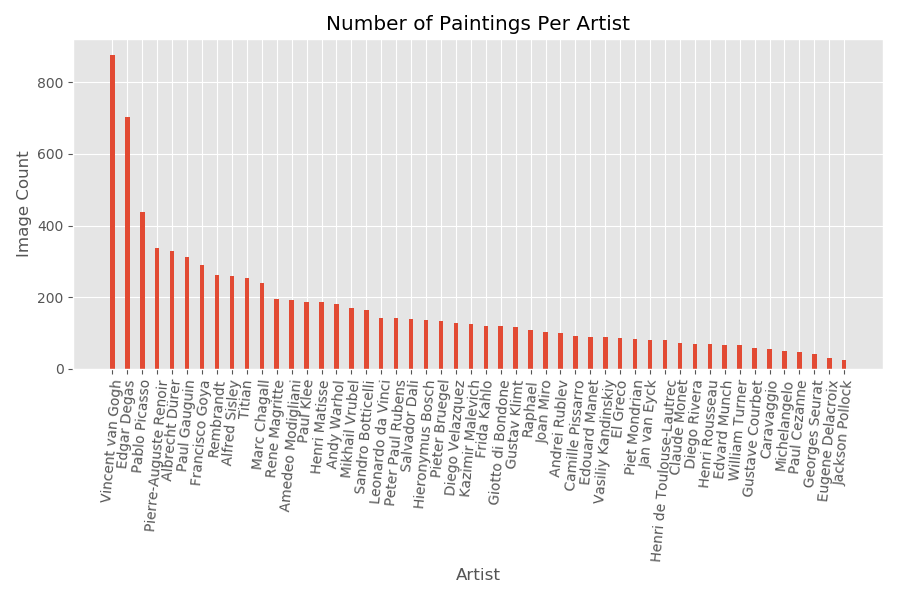
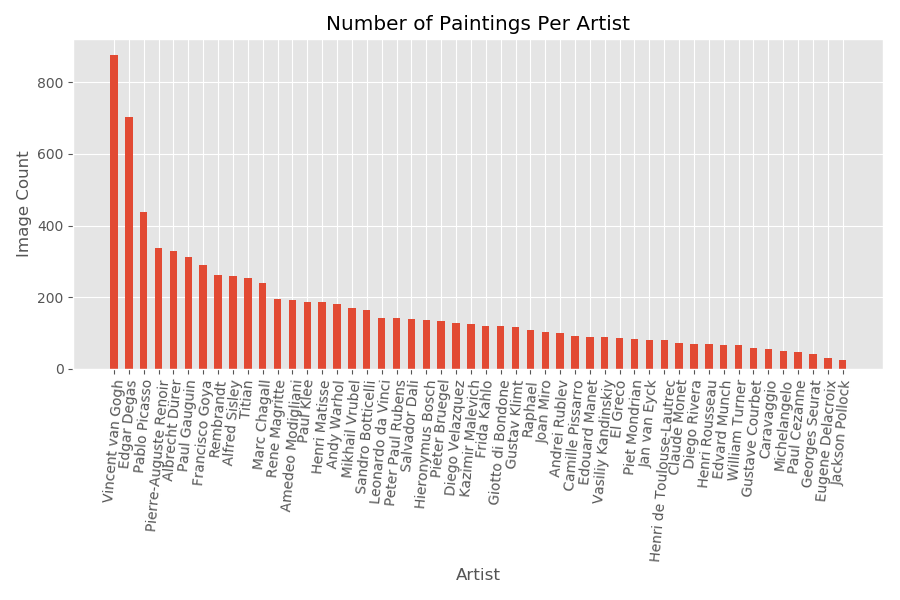
adjusted to dropout to .5/.8/.6

Changed region(s): [[0.0933, 0.06, 0.9644, 0.87], [0.7156, 0.9, 0.7467, 0.93]]

diff --git a/src/eda.py b/src/eda.py
@@ -5,6 +5,19 @@ plt.style.use('ggplot')
 
 artists = pd.read_csv('data/artists.csv')
 
+def bar_chart(labels, data, fig_name, xlabel = None, ylabel = None, title = None):
+    fig, ax = plt.subplots(1,1, figsize = (9, 6))
+    xtickLocations = np.arange(len(labels))
+    ax.bar(xtickLocations, data, width = .5)
+    ax.set_xticks(xtickLocations)
+    ax.set_xticklabels(labels)
+    ax.set_title(title)
+    ax.set_xlabel(xlabel)
+    ax.set_ylabel(ylabel)
+    plt.xticks(rotation= 85)
+    plt.tight_layout()
+    plt.savefig('img/{0}'.format(fig_name))
+
 if __name__ == "__main__":
     print(artists.head())
     paint = artists.sort_values('paintings')[::-1]
@@ -13,14 +26,23 @@ if __name__ == "__main__":
     counts = paint.paintings 
     width = 0.3
 
-    fig, ax = plt.subplots(1,1, figsize = (9, 6))
-    ax.bar(xtickLocations, counts, width)
-    ax.set_xticks(xtickLocations)
-    ax.set_xticklabels(labels)
-    ax.set_title('Number of Paintings Per Artist')
-    ax.set_xlabel('Artist')
-    ax.set_ylabel('Image Count')
-    plt.xticks(rotation= 85)
-    plt.tight_layout()
-    plt.savefig('img/paintings.png')
+    bar_chart(labels, counts, 'paintings', 'Artist', 'Image Count', 
+                    'Number of Paintings Per Artist')
+
+    nation = artists.nationality.value_counts()
+    labels = nation.index 
+    data = nation.values 
+    bar_chart(labels, data, 'nationality', 'Nationality', 'Number of Artist', 'Frequency of Nationality')
+
+    # fig, ax = plt.subplots(1,1, figsize = (9, 6))
+    # ax.bar(xtickLocations, counts, width)
+    # ax.set_xticks(xtickLocations)
+    # ax.set_xticklabels(labels)
+    # ax.set_title('Number of Paintings Per Artist')
+    # ax.set_xlabel('Artist')
+    # ax.set_ylabel('Image Count')
+    # plt.xticks(rotation= 85)
+    # plt.tight_layout()
+    # plt.savefig('img/paintings.png')
+
 

diff --git a/src/cnn.py b/src/cnn.py
@@ -65,14 +65,14 @@ def define_model(nb_filters, kernel_size, input_shape, pool_size):
     model.add(Activation('relu'))
 
     model.add(MaxPooling2D(pool_size=pool_size, name = 'pool_layer2'))
-    model.add(Dropout(0.3))
+    model.add(Dropout(0.5))
     model.add(Conv2D(nb_filters, (kernel_size[0], kernel_size[1]), 
                         padding='valid', 
                         name = 'conv_layer3'))
     model.add(Activation('relu'))
 
     model.add(MaxPooling2D(pool_size=pool_size, name = 'pool_layer3'))
-    model.add(Dropout(0.5))
+    model.add(Dropout(0.8))
 
     model.add(Flatten())
     print('Model flattened out to ', model.output_shape)
@@ -81,7 +81,7 @@ def define_model(nb_filters, kernel_size, input_shape, pool_size):
     model.add(Dense(64)) 
     model.add(Activation('relu'))
 
-    model.add(Dropout(0.5))
+    model.add(Dropout(0.6))
 
     model.add(Dense(nb_classes))
     model.add(Activation('softmax'))
@@ -181,10 +181,10 @@ if __name__ == "__main__":
     plt.legend()
     plt.savefig('img/CNN_loss.png')
 
-
-
-
-
+    print('Model Score: {0}'.format(score[0]))
+    print('Holdout Accuracy Score: {0}'.format(score[1]))
+    print('Holdout Precision Score: {0}'.format(score[2]))
+    print('Holdout Recall Score: {0}'.format(score[2]))
 
 
 
